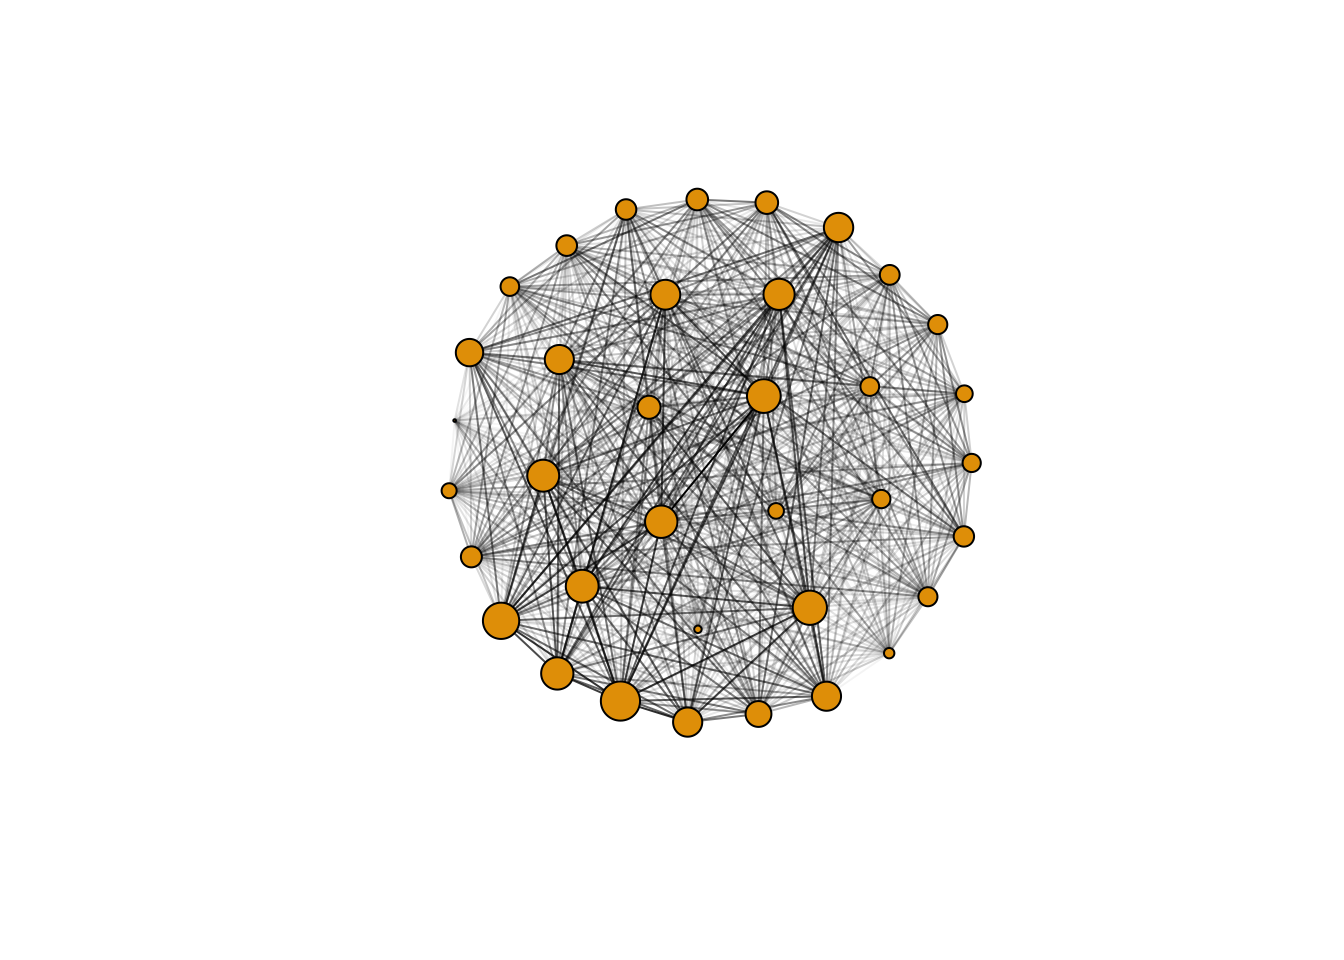
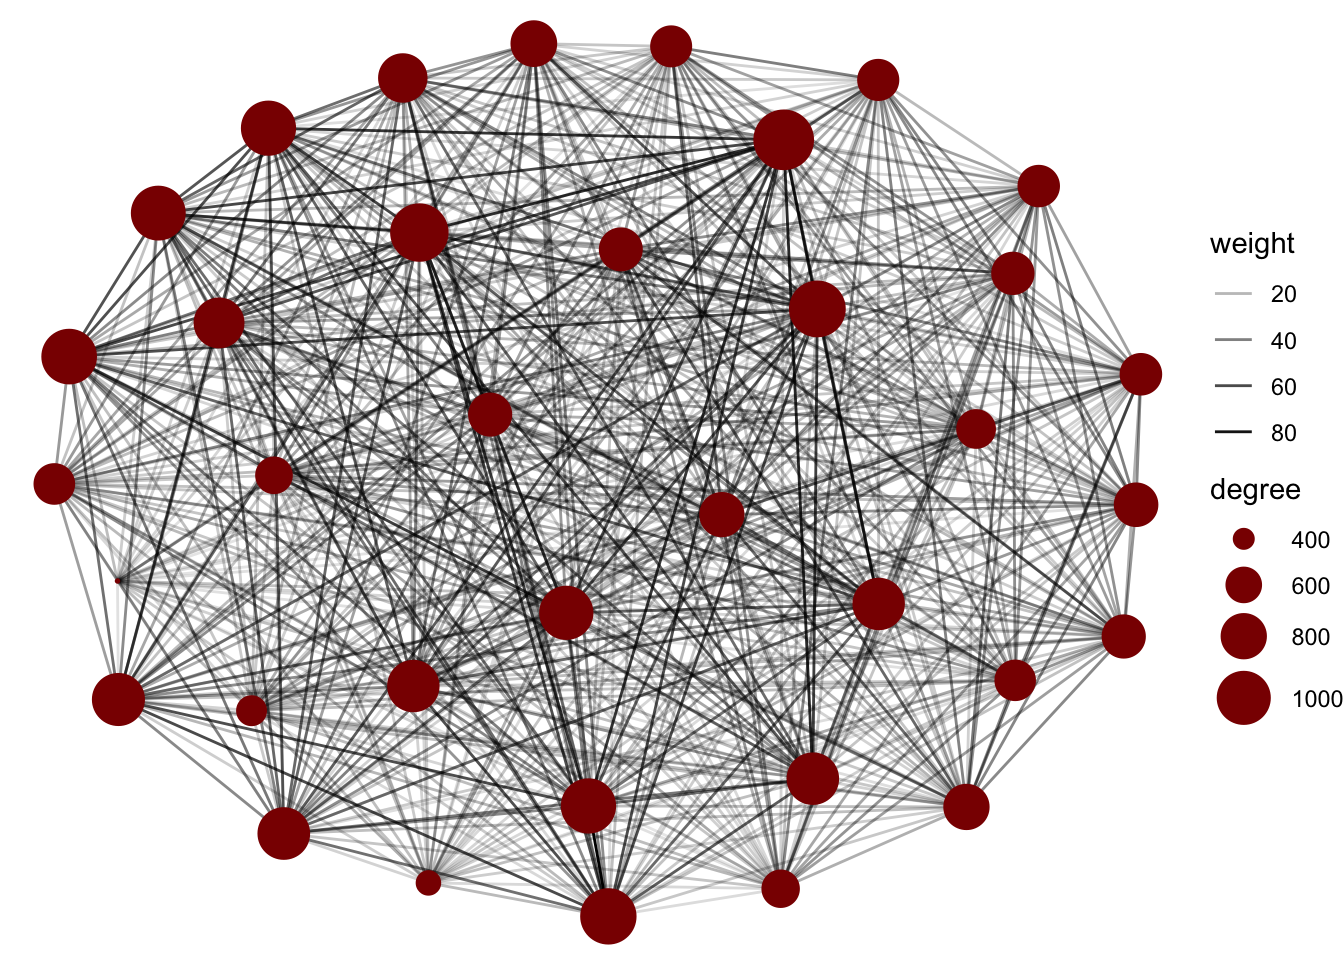
Updated Lab 3

diff --git a/Lab3.html b/Lab3.html
@@ -393,46 +393,49 @@ We will define our contact network based on proximity between two animals from t
 <div id="exploratory-analysis" class="section level1" number="1">
 <h1><span class="header-section-number">1</span> Exploratory analysis</h1>
 <pre class="r"><code># libraries we will use
-library(dplyr)
-library(sf)
-library(sp)
-library(ggplot2)
+library(dplyr) # for data manipulation
+library(sf) # For spatial data manipulation
+library(sp) # for spatial data
+library(ggplot2) # for making figures
+library(purrr) # for network transformation
+library(tidygraph) # for network manipulation
+library(ggraph) # for plotting networks
 # We get the data from the STNet package
 GPSc &lt;- STNet::GPSc</code></pre>
 <p>First we will see how many locations were recorded during the observation period by species:</p>
-<pre class="r"><code>GPSc %&gt;%
-  group_by(species_type) %&gt;%
-  summarise(N = n())</code></pre>
-<pre><code>## # A tibble: 3 × 2
-##   species_type     N
-##   &lt;fct&gt;        &lt;int&gt;
-## 1 cattle        9309
-## 2 deer         11511
-## 3 pig           4428</code></pre>
+<pre class="r"><code>GPSc %&gt;% 
+  count(species_type) # count by species</code></pre>
+<pre><code>##   species_type     n
+## 1       cattle  9309
+## 2         deer 11511
+## 3          pig  4428</code></pre>
 <p>Now lets create a dataset for the nodes.</p>
-<pre class="r"><code>Nodes &lt;- GPSc %&gt;%
-  distinct(CollarID, species_type)</code></pre>
+<pre class="r"><code>Nodes &lt;- GPSc %&gt;% 
+  mutate(CollarID = as.character(CollarID)) %&gt;% # convert to character
+  distinct(CollarID, species_type) # unique IDs</code></pre>
 <div id="temporal-visualization" class="section level2" number="1.1">
 <h2><span class="header-section-number">1.1</span> Temporal visualization</h2>
 <p>Now lets see how does the GPS records varies during the observation period:</p>
 <pre class="r"><code>Daily &lt;- GPSc %&gt;%
-  count(Date, species_type)
+  count(Date, species_type) # Count by species and date
 
-ggplot() +
-  geom_line(data = Daily, aes(x = Date, y = n, color = species_type), size = 1) +
+ggplot(data = Daily) + # call ggplot
+  geom_line(aes(x = Date, y = n, color = species_type), size = 1) +
   theme_minimal()</code></pre>
 <p><img src="Lab3_files/figure-html/unnamed-chunk-5-1.png" width="672" /></p>
 </div>
 <div id="spatial-distribution-of-the-records" class="section level2" number="1.2">
 <h2><span class="header-section-number">1.2</span> Spatial distribution of the records</h2>
-<p>First we will tronsform our data into a spatial points object.</p>
+<p>First we will transform our data into a spatial points object.</p>
 <pre class="r"><code>GPScSP &lt;- GPSc %&gt;%
-  st_as_sf(coords = c(&quot;X&quot;, &quot;Y&quot;), crs = st_crs(4326)) %&gt;%
-  st_transform(st_crs(32615))</code></pre>
-<p>Now we use <code>geom_sf()</code> to see the locations on a map.</p>
-<pre class="r"><code>ggplot() +
-  geom_sf(data = GPScSP, aes(color = species_type), show.legend = &quot;point&quot;) +
-  theme_minimal()</code></pre>
+  st_as_sf(coords = c(&quot;X&quot;, &quot;Y&quot;), crs = st_crs(4326)) %&gt;% # convert to spatial data
+  st_transform(st_crs(32615)) # project the data</code></pre>
+<p>Now we use <code>geom_sf()</code> to show the recorded locations on a map.</p>
+<pre class="r"><code>GPScSP %&gt;% 
+  ggplot() + # 
+  geom_sf(aes(color = species_type), alpha = 0.2, size = 0.4) +
+  theme_minimal() +
+  theme(legend.position = &#39;top&#39;)</code></pre>
 <p><img src="Lab3_files/figure-html/unnamed-chunk-7-1.png" width="672" /></p>
 <p>It looks like the 3 different species have movement ranges where they coincide. To identify where are the species coinciding more often we will use a hexagonal grid.</p>
 </div>
@@ -465,13 +468,13 @@ plot(BorderHex$geometry)</code></pre>
 <p>Now lets plot the movement ranges for the species on the observed period:</p>
 <pre class="r"><code># For cattle:
 GPScSP %&gt;%
-  filter(species_type == &quot;cattle&quot;) %&gt;%
-  HexMap(Hex = BorderHex, .) %&gt;%
-  ggplot(., aes(fill = N)) +
-  geom_sf() +
-  scale_fill_gradient(low=&quot;white&quot;, high=&quot;red&quot;) +
-  ggtitle(&quot;Cattle Range&quot;) +
-  theme_void()</code></pre>
+  filter(species_type == &quot;cattle&quot;) %&gt;% # we filter to only cattle records
+  HexMap(Hex = BorderHex, .) %&gt;% # count the points per grid cell
+  ggplot(., aes(fill = N)) + # call ggplot
+  geom_sf() + # add the spatial layer
+  scale_fill_gradient(low=&quot;white&quot;, high=&quot;red&quot;) + # define the gradient for the fill
+  ggtitle(&quot;Cattle Range&quot;) + # add a title
+  theme_void() #add a theme </code></pre>
 <p><img src="Lab3_files/figure-html/unnamed-chunk-10-1.png" width="672" /></p>
 <p><strong>Exercise:</strong> Create the range maps for the other 2 species (deer y pig) and use different colors.</p>
 </div>
@@ -491,7 +494,8 @@ Edges &lt;- CreateNetwork(DF = GPSc[,], # This is our data
                        coords = c(&quot;Longitude&quot;, &quot;Latitude&quot;) # Name of variable for coordinated
                        ) # 14,869</code></pre>
 <p>To load the data directly from the <code>STNet</code> package we can use the function:</p>
-<pre class="r"><code>Edges &lt;- STNet::.</code></pre>
+<pre class="r"><code>Edges &lt;- STNet::. %&gt;%  # load the dataset from the package
+  mutate_at(.vars = c(&#39;Var1&#39;, &#39;Var2&#39;), .funs = as.character) # convert the variables to character</code></pre>
 <p>This dataset includes:</p>
 <ul>
 <li><em>Distance</em>: distance between the recorded contact.<br />
@@ -508,7 +512,7 @@ Edges &lt;- CreateNetwork(DF = GPSc[,], # This is our data
 For this we will create a subset of the data that includes only contacts between different species.</p>
 <pre class="r"><code># Add variable for species
 Edges &lt;- Edges %&gt;%
-  left_join(Nodes, by = c(&quot;Var1&quot; = &quot;CollarID&quot;)) %&gt;% #Var1 one of the nodes
+  left_join(Nodes, by = c(&quot;Var1&quot; = &quot;CollarID&quot;)) %&gt;% # Var1 one of the nodes
   rename(Sp1 = species_type) %&gt;%
   left_join(Nodes, by = c(&quot;Var2&quot; = &quot;CollarID&quot;)) %&gt;% # Var 2 is the other node
   rename(Sp2 = species_type)
@@ -516,13 +520,16 @@ Edges &lt;- Edges %&gt;%
 InterSp &lt;- Edges %&gt;% 
   filter(Sp1 != Sp2) %&gt;% # select contacts where the species are different
   data.frame()</code></pre>
-<pre class="r"><code>InterSp_sp &lt;- InterSp %&gt;%
+<pre class="r"><code># we create a projected dataset 
+InterSp_sp &lt;- InterSp %&gt;%
   dplyr::select(DateTime, Var1, Var2, Sp1, Sp2, X.x, Y.x) %&gt;%
-  st_as_sf(coords = c(&quot;X.x&quot;, &quot;Y.x&quot;), crs = st_crs(&quot;+init=EPSG:4326&quot;)) %&gt;%
+  st_as_sf(coords = c(&quot;X.x&quot;, &quot;Y.x&quot;), crs = st_crs(4326)) %&gt;%
   st_transform(st_crs(32615))
   
+# Count the observations per grid cell
 IspH &lt;- HexMap(BorderHex, Points = InterSp_sp)
 
+# make the figure
 ggplot(IspH, aes(fill = N)) +
   geom_sf() +
   scale_fill_gradient(low=&quot;white&quot;, high=&quot;gold3&quot;) +
@@ -543,41 +550,30 @@ ggplot(IspH, aes(fill = N)) +
 </div>
 <div id="creating-the-network" class="section level2" number="3.3">
 <h2><span class="header-section-number">3.3</span> Creating the network:</h2>
-<pre class="r"><code># Libraries we will use:
-library(igraph)
-library(scales)
-# Create the network:
-G1 &lt;- graph_from_data_frame(Edges[c(&quot;Var1&quot;, &quot;Var2&quot;)], vertices = Nodes, directed = F)
-# Create a variable to count the number of contact:
-E(G1)$w &lt;- 1
-# Simplifying the network:
-G1s &lt;- simplify(G1, # Name of the network
-                remove.multiple = T, # Remove multiple contacts
-                edge.attr.comb = list(w = &quot;sum&quot;)) # Function to do with the multiple contacts
+<pre class="r"><code># Create the network:
+G1 &lt;- as_tbl_graph(Edges[c(&quot;Var1&quot;, &quot;Var2&quot;)], directed = F) %N&gt;% 
+  mutate(degree = centrality_degree()) %&gt;% 
+  left_join(Nodes, by = c(&#39;name&#39; = &#39;CollarID&#39;)) %E&gt;%
+  mutate(N = as.integer(1)) %&gt;% # Create a variable to count the number of contact:
+  convert(to_simple) %E&gt;%  # now we will convert it to a simple network
+  mutate(weight = map_int(.orig_data, ~.x %&gt;% pull(N) %&gt;% sum()))  # We have to sum all the repeated movements
 
-# calculate the degree (since its not directed we can not define indegree or outdegree)
-V(G1)$degree &lt;- degree(G1, mode = &quot;all&quot;)
-
-plot(G1s, 
-     edge.color = alpha(&quot;black&quot;, rescale(E(G1s)$w, c(0.01, 1))), # use number of contacts for transparency
-     layout = layout_with_kk, 
-     vertex.label = NA, 
-     vertex.size = rescale(V(G1)$degree, c(1, 15)))</code></pre>
+ggraph(graph = G1) +
+  geom_edge_link(aes(alpha = weight)) +
+  geom_node_point(aes(size = degree), col = &#39;darkred&#39;) +
+  scale_size(range = c(0.3, 10)) +
+  theme_void()</code></pre>
 <p><img src="Lab3_files/figure-html/unnamed-chunk-18-1.png" width="672" /></p>
 </div>
 <div id="networks-by-species" class="section level2" number="3.4">
 <h2><span class="header-section-number">3.4</span> Networks by species:</h2>
-<p>To create a subset of our network we can use the function <code>induced_graph</code>, where we need to specify the network that we will extract from and the ids of the nodes, for this we use the function <code>which()</code> and specify that we watn the deer only.</p>
-<pre class="r"><code>VIDs &lt;- which(V(G1)$species_type == &quot;deer&quot;)
-DeerG &lt;- induced_subgraph(graph = G1s, vids = VIDs)
-
-
-plot(DeerG, 
-     edge.color = alpha(&quot;black&quot;, rescale(E(DeerG)$w, c(0.01, 1))),
-     layout = layout_with_kk, 
-     vertex.label = NA, 
-     vertex.size = rescale(V(G1)$degree[VIDs], c(1, 15)), 
-     vertex.color = &quot;darkgreen&quot;)</code></pre>
+<p>We can filter the nodes based on the species type to create a figure of only one species type.</p>
+<pre class="r"><code>G1 %N&gt;% 
+  filter(species_type == &#39;cattle&#39;) %&gt;% 
+  ggraph() +
+  geom_edge_link(aes(alpha = weight)) +
+  geom_node_point(aes(size = degree), col = &#39;darkgreen&#39;) +
+  theme_void()</code></pre>
 <p><img src="Lab3_files/figure-html/unnamed-chunk-19-1.png" width="672" /></p>
 <p><strong>Exercise:</strong> create the network for the other 2 species</p>
 <hr />
